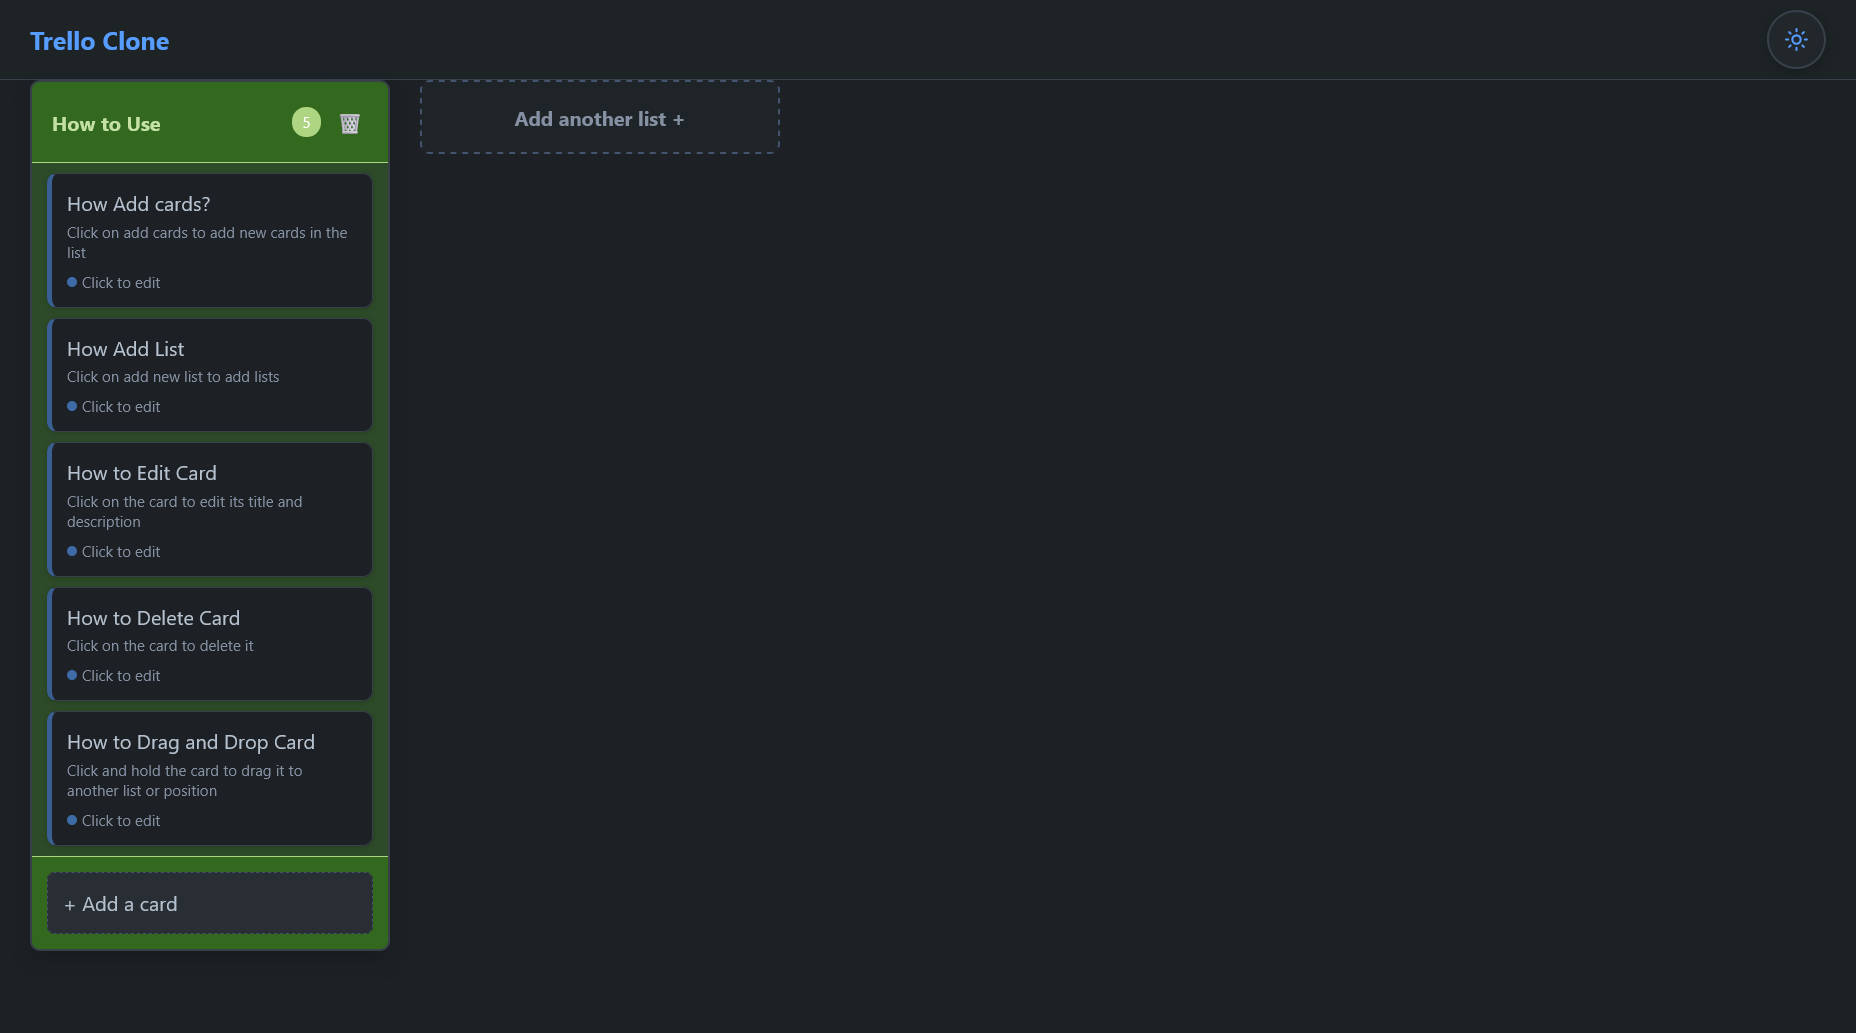
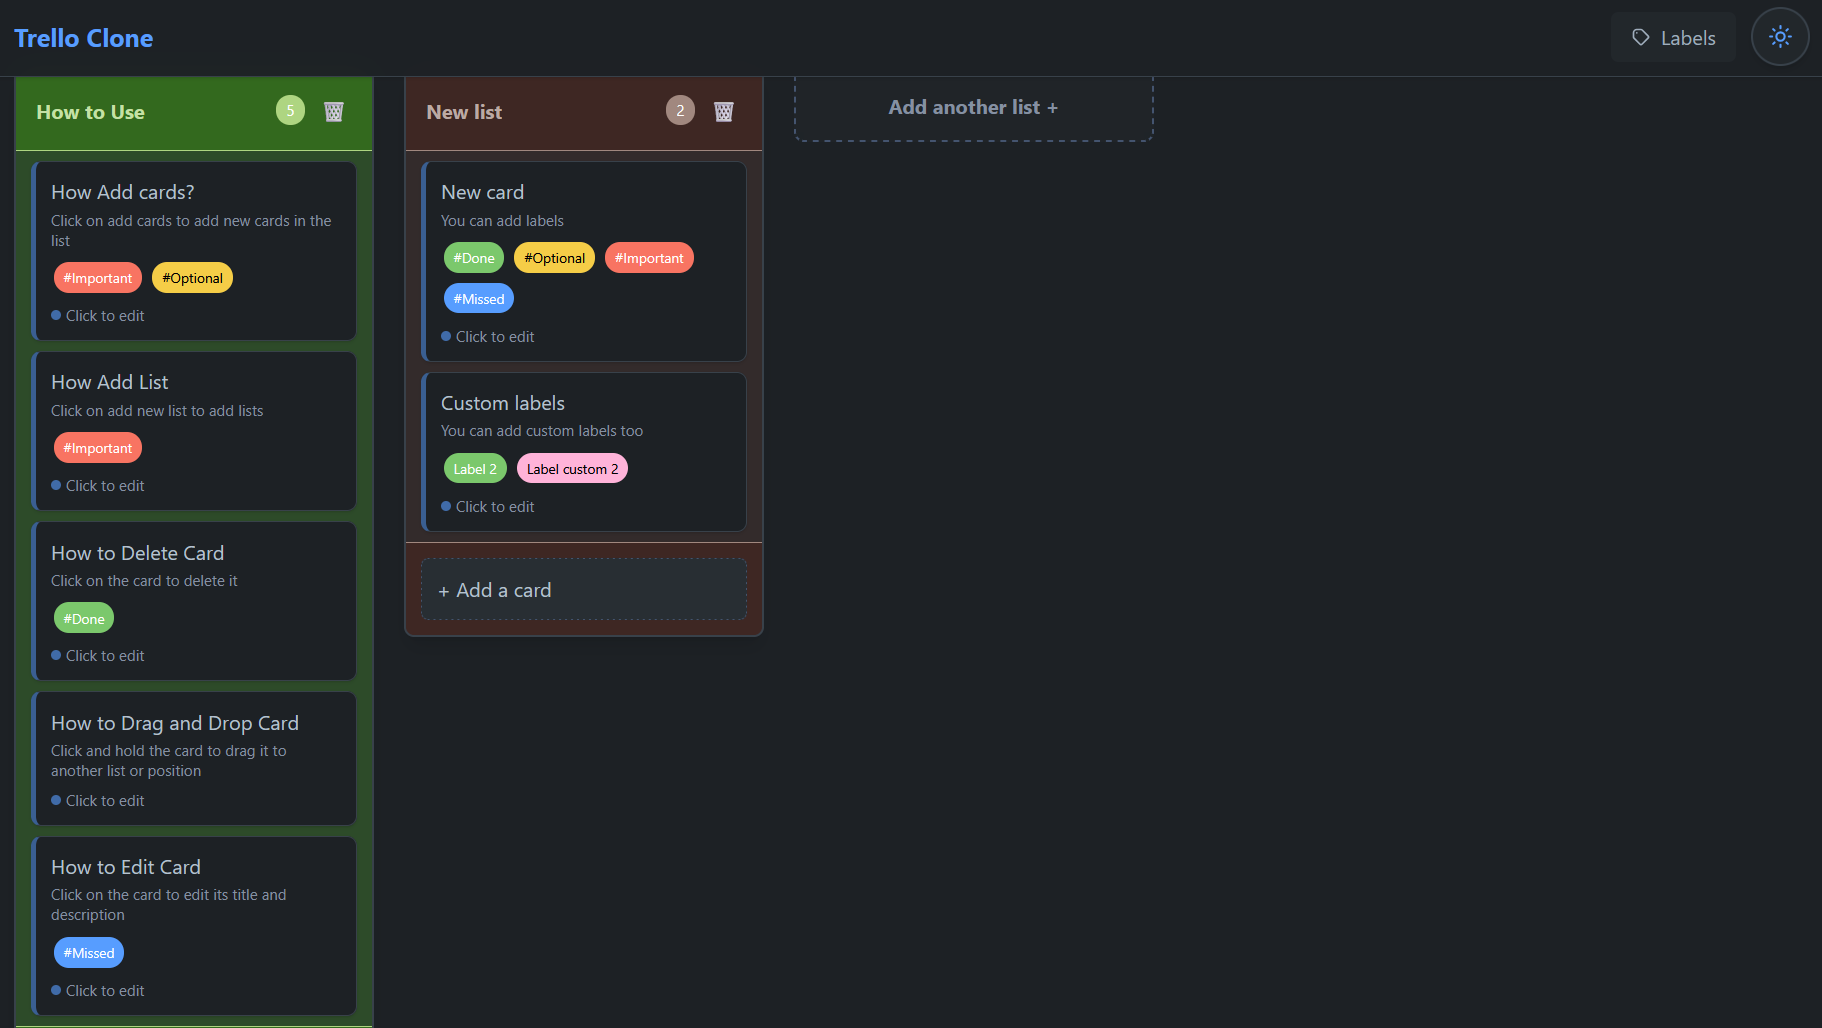
Updated readme and screenshots

Changed region(s): [[0.0, 0.0311, 0.4303, 1.0], [0.8913, 0.0, 0.9835, 0.0623], [0.4918, 0.0934, 0.584, 0.1245]]

diff --git a/README.md b/README.md
@@ -1,6 +1,6 @@
 # 🚀 Trello Clone
 
-A modern, responsive Trello clone built with React and featuring drag-and-drop functionality, theme switching, and beautiful randomized list colors.
+A modern, feature-rich Trello clone built with React and featuring drag-and-drop functionality, labels system, filtering, theme switching, and beautiful randomized list colors.
 [LIVE DEMO](https://trello-clone-five-peach.vercel.app/)
 
 ## ✨ Features
@@ -11,31 +11,42 @@ A modern, responsive Trello clone built with React and featuring drag-and-drop f
 - **🎯 Drag & Drop**: Seamless drag-and-drop for both cards and lists using @dnd-kit
 - **💾 Local Storage**: Automatic data persistence across browser sessions
 
+### 🏷 **NEW: Labels System**
+- **12 Color Label Palette**: Professional color scheme with theme adaptation
+- **Label Management**: Create, edit, and delete labels via dedicated sidebar
+- **Card Label Assignment**: Add/remove labels directly from card modal or create new ones on-the-fly
+- **Smart Filtering**: Filter board by multiple labels with OR logic (shows cards with ANY selected label)
+- **Visual Filter Indicators**: Active filter count displayed in header with quick access
+- **Theme-Adaptive Colors**: Labels automatically adjust brightness for light/dark themes
+
 ### 🎨 Design & UX
 - **🌓 Dark/Light Theme**: Toggle between themes with smooth transitions
 - **🌈 Randomized List Colors**: Each list gets a unique, professional color scheme
 - **📱 Responsive Design**: Works beautifully on desktop and mobile devices
 - **✨ Smooth Animations**: Polished hover effects and transitions
+- **🎯 Improved Navigation**: Fixed header with enhanced visibility and backdrop blur
 
-### 🎭 Theme System
+### 🎭 Advanced Theme System
 - **Professional Color Palette**: Carefully chosen colors for optimal readability
-- **CSS Variables**: Dynamic theming with custom properties
+- **CSS Variables with Tailwind v4**: Dynamic theming with custom properties
 - **System Theme Detection**: Respects user's system preferences
 - **Theme Persistence**: Remembers your theme choice
+- **Label Color Optimization**: Darker colors for light theme, brighter for dark theme
 
 ## 🛠 Built With
 
-- **React 18** - UI Framework
-- **@dnd-kit** - Drag and drop functionality
-- **Tailwind CSS** - Styling with custom theme system
-- **Lucide React** - Beautiful icons
+- **React 18** - UI Framework with latest hooks and concurrent features
+- **@dnd-kit** - Modern, accessible drag and drop functionality
+- **Tailwind CSS v4** - Next-gen styling with CSS variables for theming
+- **Vite** - Lightning-fast development and build tooling
+- **Context API + useReducer** - Sophisticated state management pattern
 - **UUID** - Unique ID generation
-- **LocalStorage** - Data persistence
+- **LocalStorage** - Data persistence with error handling
 
 ## 🚀 Getting Started
 
 ### Prerequisites
-- Node.js (v14 or higher)
+- Node.js (v18 or higher)
 - npm or yarn
 
 ### Installation
@@ -77,17 +88,27 @@ Navigate to `http://localhost:5173`
 - **Delete Card**: Click "Delete" button in the card modal
 - **Drag Cards**: Click and drag cards between lists or reorder within a list
 
+### **NEW: Labels & Filtering**
+- **Access Labels**: Click "Labels" button in the header
+- **Create Labels**: Use "Manage" tab in Labels sidebar, choose from 12 colors
+- **Assign to Cards**: Add labels via card modal or create new ones instantly
+- **Filter Board**: Use "Filter" tab to show only cards with selected labels
+- **Multiple Filters**: Select multiple labels to show cards with ANY of those labels
+- **Quick Filter Management**: Active filter count shown in header for easy access
+
 ### Theme Switching
 - **Toggle Theme**: Click the sun/moon icon in the top-right corner
 - **System Theme**: Automatically detects your system preference
 - **Persistent**: Your theme choice is saved between sessions
 
-## 🎨 Color System
+## 🎨 Advanced Color System
 
 The app features a sophisticated color system with:
 - **12 Professional Color Schemes**: Each list gets a unique color combination
+- **12 Label Colors**: Distinct label palette with semantic naming (blue, green, yellow, etc.)
 - **Light/Dark Variants**: Every color has optimized light and dark theme versions
 - **Consistent Randomization**: Same list always gets the same color (based on ID hash)
+- **Theme-Adaptive Labels**: Labels automatically adjust for optimal contrast
 - **Accessibility**: All colors meet WCAG contrast requirements
 
 ## 📁 Project Structure
@@ -95,75 +116,111 @@ The app features a sophisticated color system with:
 ```
 src/
 ├── components/
-│   ├── Board.jsx          # Main board component
-│   ├── List.jsx           # List component with drag-drop
-│   ├── Card.jsx           # Card component with modal
+│   ├── Board.jsx             # Main board with DndContext and fixed header
+│   ├── List.jsx              # List component with drag-drop
+│   ├── Card.jsx              # Card component with modal and label support
+│   ├── Label.jsx             # Individual label component
+│   ├── LabelSidebar.jsx      # Label management sidebar (Filter/Manage tabs)
 │   └── ThemeToggleButton.jsx # Theme switcher
 ├── contexts/
-│   ├── BoardContext.jsx   # Global state management
-│   └── ThemeContext.jsx   # Theme state management
-├── index.css             # Global styles & CSS variables
-├── App.jsx               # Root component
-└── main.jsx              # Entry point
+│   ├── BoardContext.jsx      # Global state with labels integration
+│   └── ThemeContext.jsx      # Theme state management
+├── handlers/
+│   ├── boardHandlers.js      # Board operations factory
+│   ├── cardHandlers.js       # Card CRUD operations
+│   ├── labelHandlers.js      # Label management operations
+│   └── boardDNDHandlers.js   # Drag-and-drop business logic
+├── hooks/
+│   ├── useBoardDragAndDrop.js # Main DND hook
+│   ├── useListDragAndDrop.js  # List drag handling
+│   └── useCardDragAndDrop.js  # Card drag handling
+├── utils/
+│   └── listColors.js         # Color scheme utilities
+├── index.css                 # Global styles & CSS variables with label colors
+├── App.jsx                   # Root component with provider hierarchy
+└── main.jsx                  # Entry point
 ```
 
 ## 🔧 Technical Features
 
-### State Management
-- **React Context**: Global state for boards and theme
-- **useReducer**: Complex state logic for board operations
+### Advanced State Management
+- **Handler-Hook-Context Pattern**: Clean separation of concerns
+- **React Context**: Global state for boards, labels, and theme
+- **useReducer**: Complex state logic for board operations including labels
+- **Factory Pattern**: Handler functions with proper closure over dispatch
 - **Local Storage**: Automatic persistence with error handling
 
-### Drag & Drop
+### Sophisticated Drag & Drop
 - **@dnd-kit**: Modern, accessible drag-and-drop
 - **Multi-type Dragging**: Support for both cards and lists
-- **Visual Feedback**: Drag overlays and hover states
-- **Touch Support**: Works on mobile devices
+- **Visual Feedback**: Drag overlays and hover states with enhanced animations
+- **Touch Support**: Works perfectly on mobile devices
+- **Label-Aware Filtering**: Drag operations work seamlessly with active filters
 
-### Styling
-- **Tailwind CSS**: Utility-first CSS framework
-- **CSS Variables**: Dynamic theming system
-- **Responsive Design**: Mobile-first approach
+### Modern Styling Architecture
+- **Tailwind CSS v4**: Latest utility-first CSS framework
+- **CSS Variables**: Dynamic theming system with automatic theme switching
+- **Label Utility Classes**: Pre-compiled label colors for reliable rendering
+- **Responsive Design**: Mobile-first approach with desktop optimization
+- **Glass Morphism**: Modern backdrop blur effects and transparency
 - **Custom Animations**: Smooth transitions and hover effects
 
-## 🎯 Future Enhancements
+### Labels System Architecture
+- **OR Logic Filtering**: Shows cards containing ANY of the selected labels
+- **Real-time Updates**: Instant visual feedback for filter changes
+- **Persistent Filters**: Filter state maintained during board operations
+- **Color Picker**: Intuitive selection with checkmarks and borders
+- **Theme Integration**: Seamless label color adaptation for light/dark themes
 
-- [ ] Card labels and tags
-- [ ] Due dates with calendar
-- [ ] Search and filter functionality
-- [ ] Card checklists
-- [ ] File attachments
-- [ ] Multiple boards
-- [ ] Export/import functionality
+## 🎯 Recent Enhancements & Future Features
+
+### ✅ Recently Added
+- [x] **Complete Labels System**: Full CRUD operations with filtering
+- [x] **Advanced Color Picker**: 12-color palette with theme adaptation
+- [x] **Smart Filtering**: Multi-label OR logic with visual indicators
+- [x] **Enhanced Navigation**: Fixed header with improved visibility
+- [x] **Theme-Aware Labels**: Automatic color optimization for light/dark themes
+
+### 🔜 Planned Features
+- [ ] Card due dates with calendar integration
+- [ ] Search functionality across cards and labels
+- [ ] Card checklists with progress indicators
+- [ ] File attachments and image previews
+- [ ] Multiple boards with board switching
+- [ ] Export/import functionality (JSON/CSV)
+- [ ] Keyboard shortcuts for power users
+- [ ] Card templates and quick actions
 
 ## 📸 Screenshots
 
-### Light Theme
-![Light Theme](screenshots/light-theme.png)
+### Light Theme with Labels
+![Light Theme Labels](screenshots/light-theme-labels.png)
 
-### Dark Theme
-![Dark Theme](screenshots/dark-theme.png)
+### Dark Theme with Filtering
+![Dark Theme Filtering](screenshots/dark-theme-filtering.png)
 
-### Drag & Drop
-![Drag and Drop](screenshots/drag-drop.png)
+### Labels Management Sidebar
+![Labels Sidebar](screenshots/labels-sidebar.png)
 
+### Drag & Drop with Labels
+![Drag and Drop Labels](screenshots/drag-drop-labels.png)
 
 
 ## 🤝 Contributing
 
 1. Fork the repository
 2. Create a feature branch (`git checkout -b feature/amazing-feature`)
-3. Commit your changes (`git commit -m 'Add amazing feature'`)
-4. Push to the branch (`git push origin feature/amazing-feature`)
-5. Open a Pull Request
-
+3. Follow the established **handler-hook-context** pattern
+4. Commit your changes (`git commit -m 'Add amazing feature'`)
+5. Push to the branch (`git push origin feature/amazing-feature`)
+6. Open a Pull Request
 
 ## 🙏 Acknowledgments
 
 - Inspired by [Trello](https://trello.com)
 - Built with [Vite](https://vitejs.dev)
-- Icons by [Lucide](https://lucide.dev)
-- Drag & Drop by [@dnd-kit](https://dndkit.com)
+- Modern drag & drop by [@dnd-kit](https://dndkit.com)
+- Icons by [Heroicons](https://heroicons.com)
 - App icon by [Freepik](https://www.flaticon.com/authors/freepik) from [Flaticon](https://www.flaticon.com/)
 
 ---
